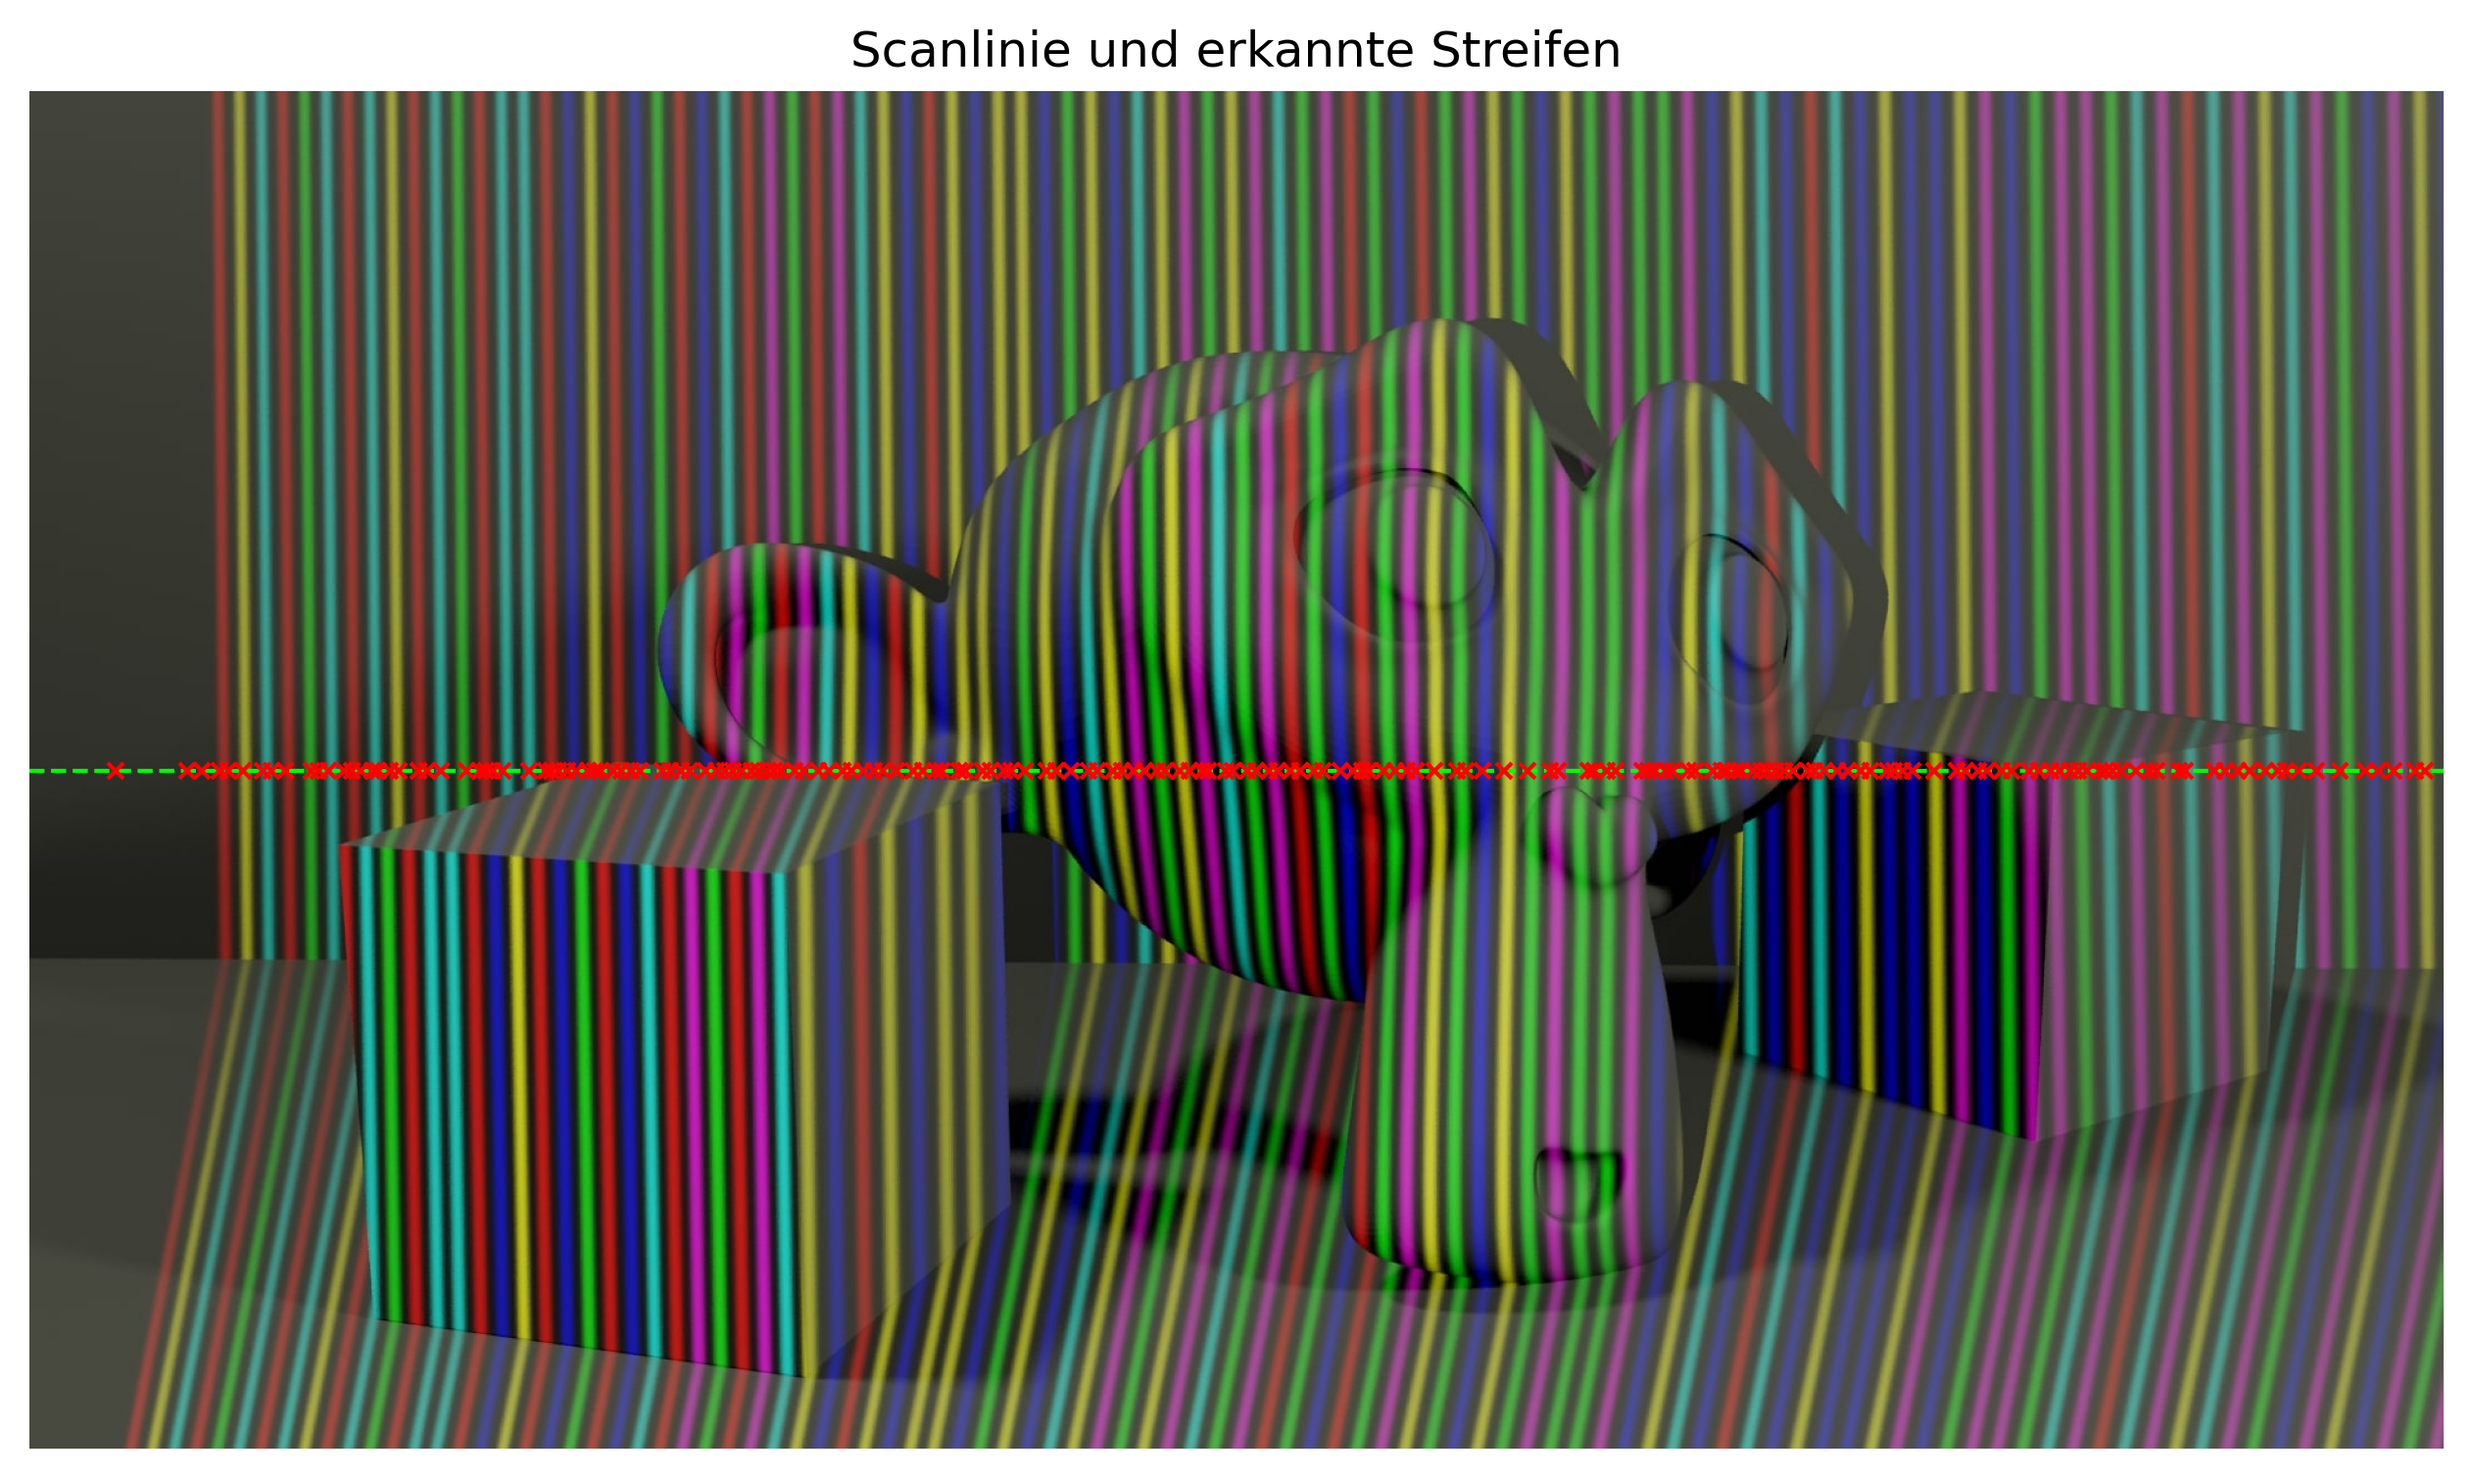
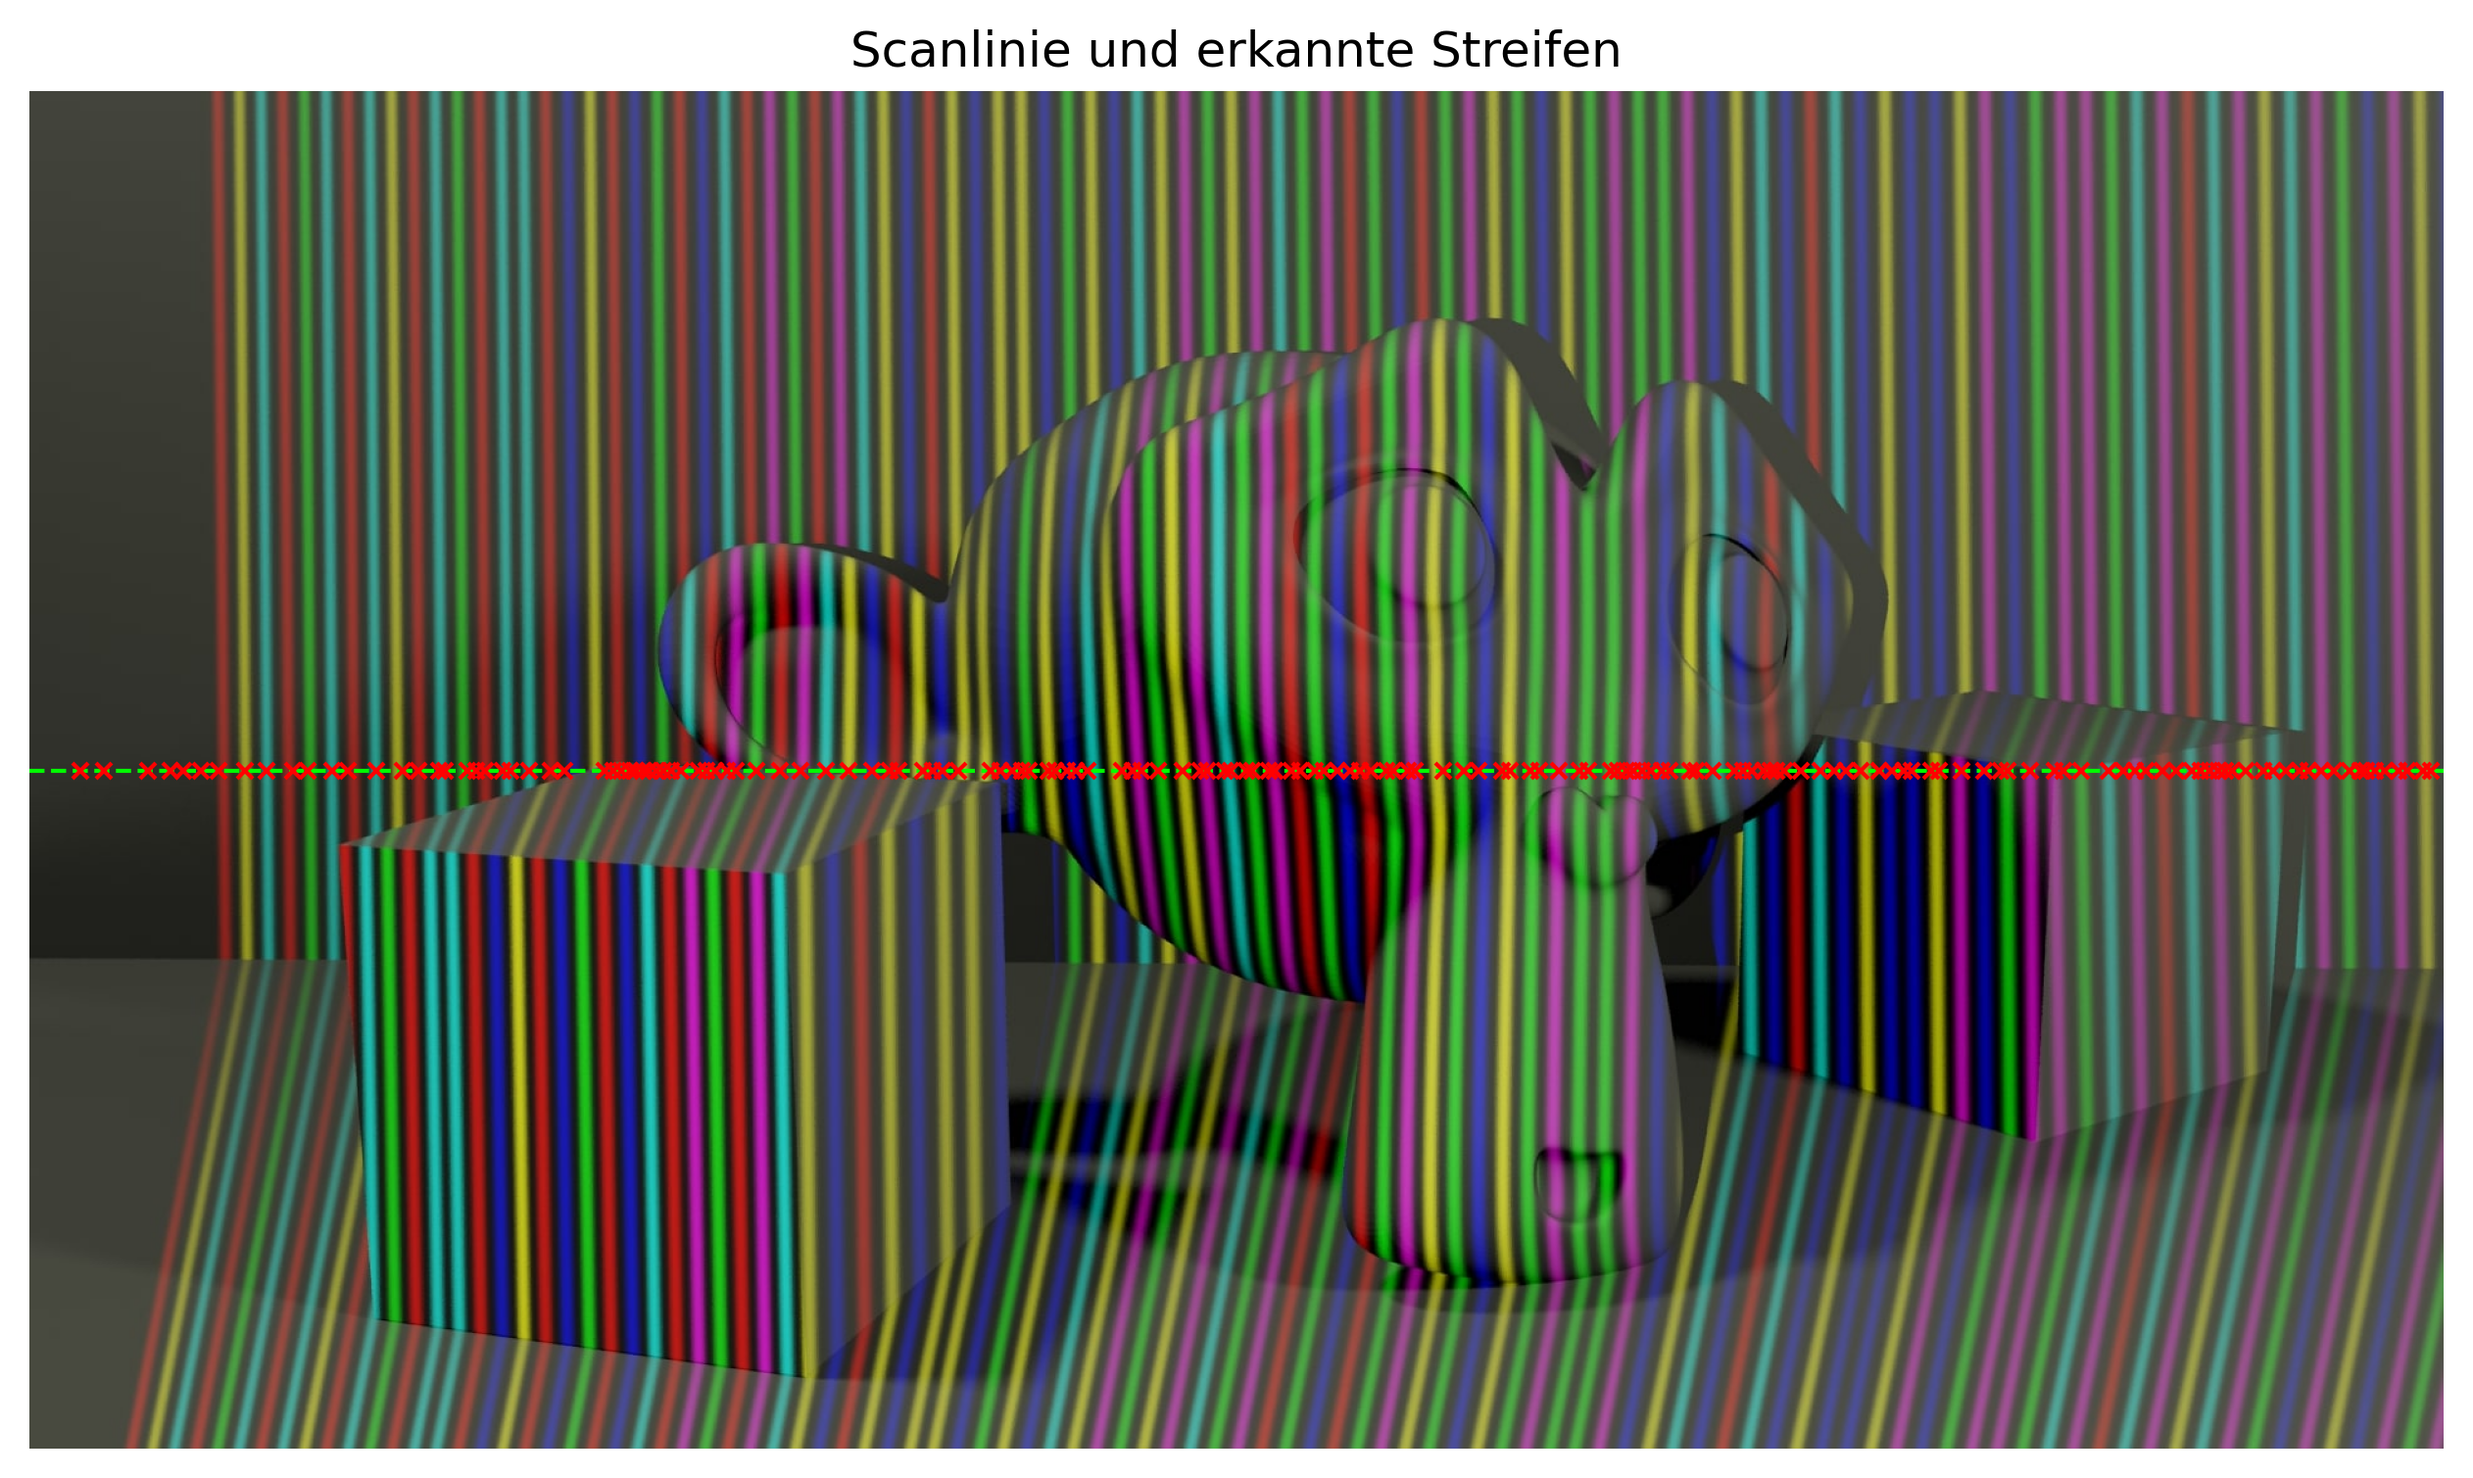
Added: Blur Test

Changed region(s): [[0.0309, 0.4983, 0.9889, 0.5295]]

diff --git a/one/stripeDetectionOneSigma.py b/one/stripeDetectionOneSigma.py
@@ -7,7 +7,7 @@ import os
 import time
 
 test_img_num = 5
-save_plot = False
+save_plot = True
 
 def read_image(img_name):
     folder = os.path.dirname(os.path.abspath(__file__))
@@ -65,7 +65,7 @@ def detect_stripes(V_norm):
 
     # 3 Peaks finden (Streifenmitten)
     # "distance" steuert den minimalen Abstand zwischen Peaks
-    peaks, props = find_peaks(line_vessel, distance=5, height=0.3)
+    peaks, props = find_peaks(line_vessel, distance=5, height=0.5)
 
     print(f"Gefundene Peaks: {len(peaks)}")
     I_rgb = cv2.cvtColor(I_color, cv2.COLOR_BGR2RGB)

diff --git a/blur_test/stripeDetectionManySigma.py b/blur_test/stripeDetectionManySigma.py
@@ -6,7 +6,7 @@ from scipy.signal import find_peaks
 import os
 import time
 
-test_img_num = 5
+test_img_num = 6
 sigmas = [4.5, 5.0]
 save_plot = True
 one_line = True
